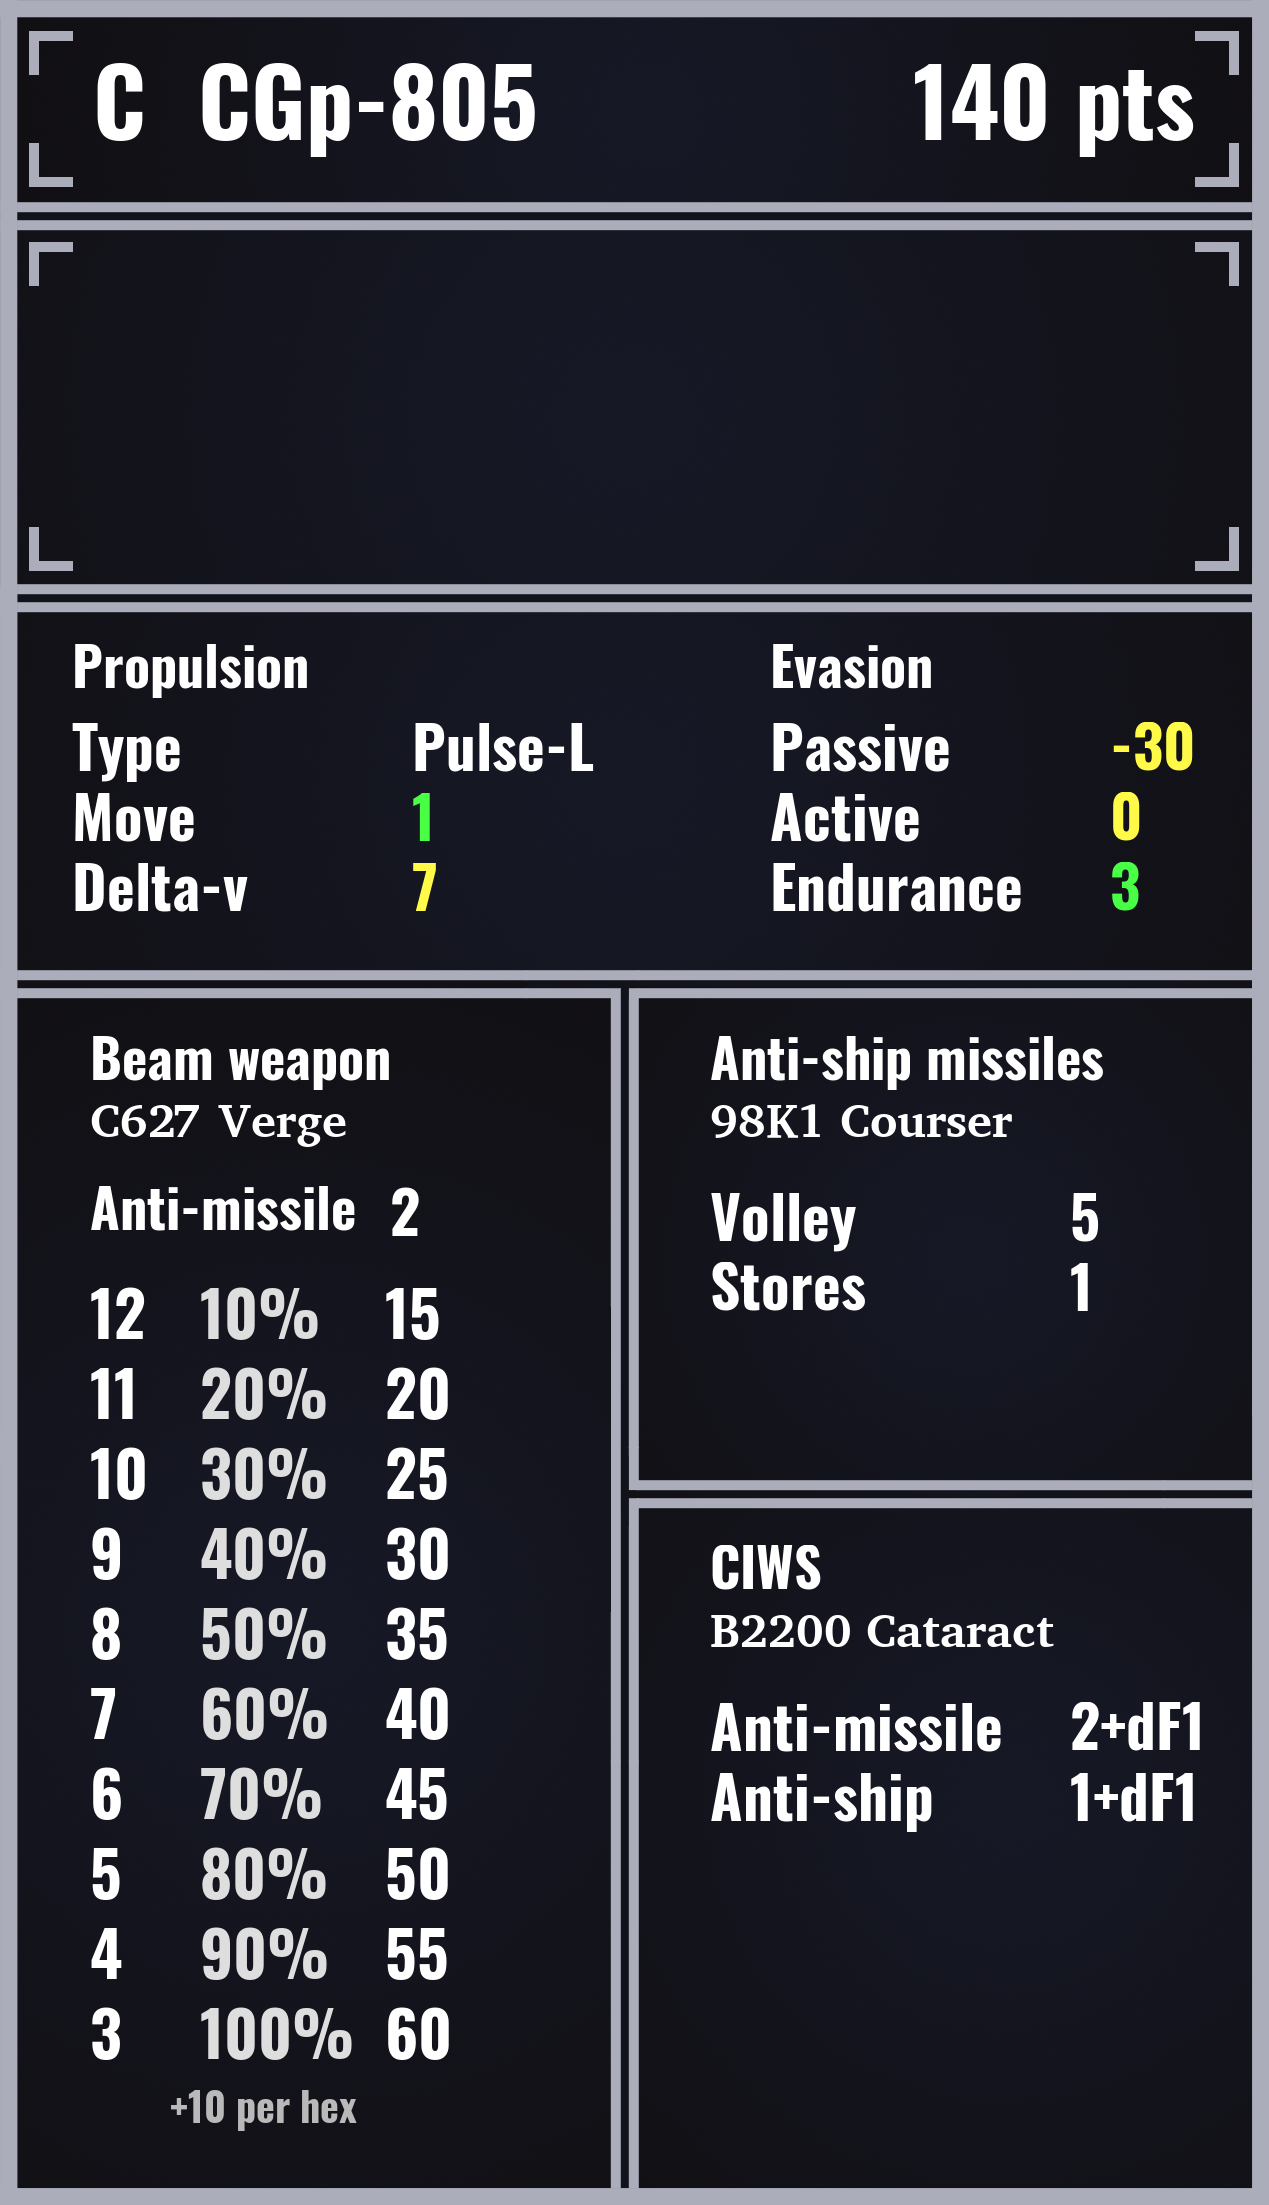
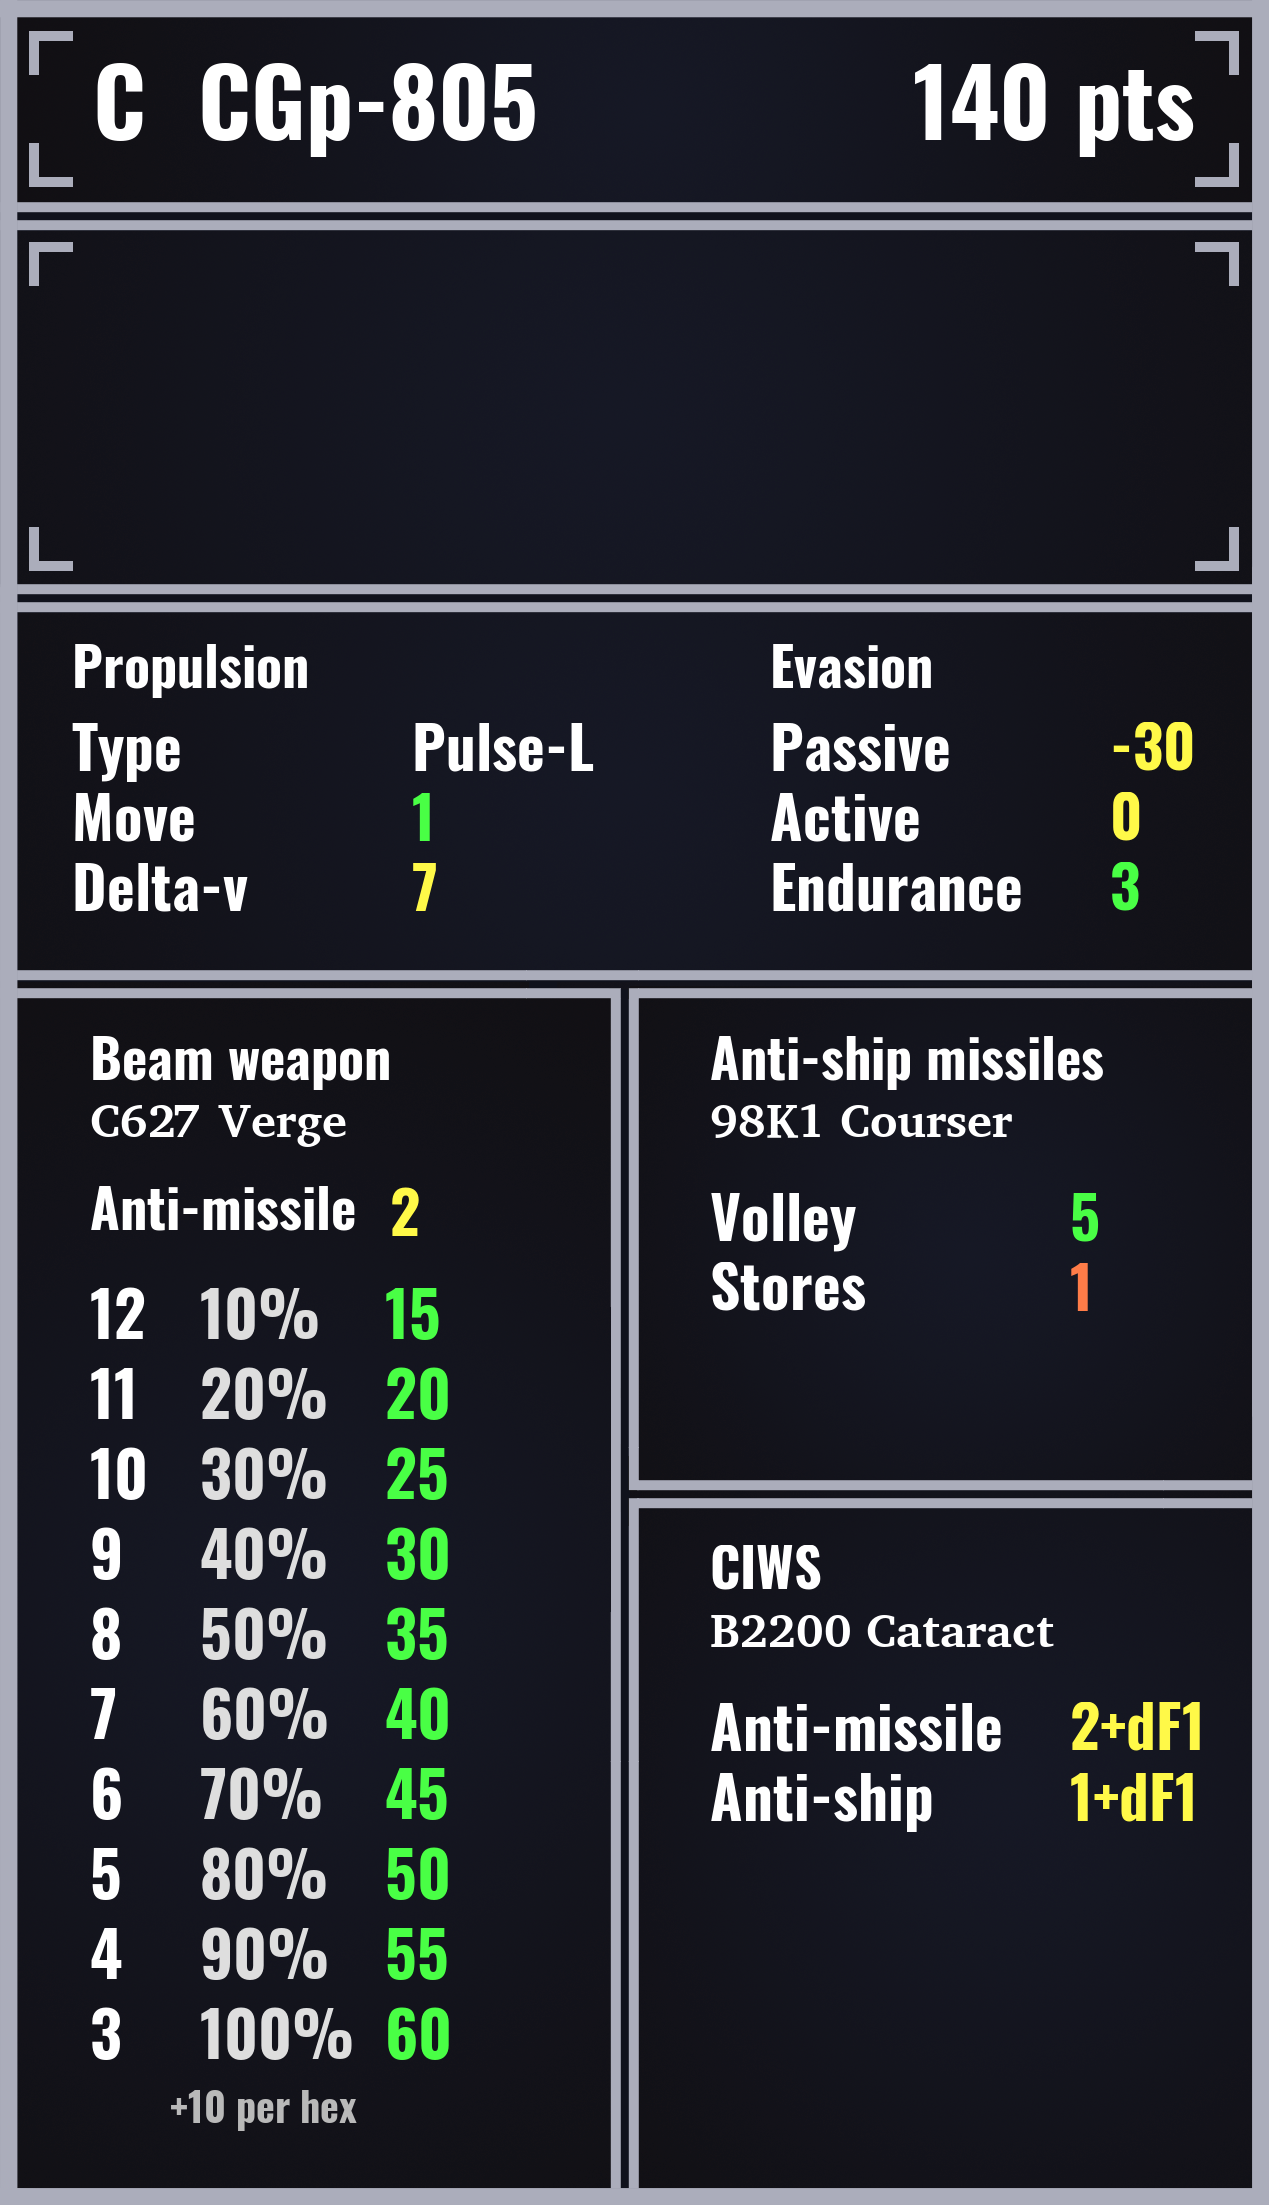
Finish implementing stat colors

Changed region(s): [[0.3073, 0.5243, 0.3688, 0.956], [0.8298, 0.771, 0.9527, 0.8327], [0.8298, 0.5243, 0.8605, 0.5859]]

diff --git a/application/cardgenerator/card_generator.py b/application/cardgenerator/card_generator.py
@@ -64,7 +64,7 @@ class CardGenerator():
             drawer.text(xy=self._add_coords_(col2_row3, number_dsplc), text=str(ship.evasion_endurance), 
             fill=colors.color(Stat.EVASION_ENDURANCE, ship.evasion_endurance), font=self.stats_font)
 
-        self._draw_weapons_(self.get_weapons(ship), drawer)
+        self._draw_weapons_(self.get_weapons(ship), drawer, colors)
 
         image.save("application/cardgenerator/assets/result.png")
 
@@ -106,7 +106,7 @@ class CardGenerator():
 
         return weapons
 
-    def _draw_weapons_(self, weapons, drawer):
+    def _draw_weapons_(self, weapons, drawer, colors):
         i = 0
         while i < 3:
             if i == 0:
@@ -126,43 +126,50 @@ class CardGenerator():
 
             if isinstance(weapons[i], Laser):
                 laser = weapons[i]
-                self._draw_laser_(laser, drawer, startcoords, statstart, number_dsplc)
+                self._draw_laser_(laser, drawer, colors, startcoords, statstart, number_dsplc)
 
             if isinstance(weapons[i], Missile):
                 missile = weapons[i]
-                self._draw_missile_(missile, drawer, startcoords, statstart, number_dsplc)
+                self._draw_missile_(missile, drawer, colors, startcoords, statstart, number_dsplc)
 
             if isinstance(weapons[i], AreaMissile):
                 area_missile = weapons[i]
-                self._draw_area_missile_(area_missile, drawer, startcoords, statstart, number_dsplc)                
+                self._draw_area_missile_(area_missile, drawer, colors, startcoords, statstart, number_dsplc)                
 
             if isinstance(weapons[i], Ewar):
                 ewar = weapons[i]
-                self._draw_ewar_(ewar, drawer, startcoords, statstart, number_dsplc)
+                self._draw_ewar_(ewar, drawer, colors, startcoords, statstart, number_dsplc)
 
             if isinstance(weapons[i], CIWS):
                 ciws = weapons[i]
-                self._draw_CIWS_(ciws, drawer, startcoords, statstart, number_dsplc)
+                self._draw_CIWS_(ciws, drawer, colors, startcoords, statstart, number_dsplc)
 
             i += 1
 
-    def _draw_laser_(self, laser, drawer, startcoords, statstart, number_dsplc):
+    def _draw_laser_(self, laser, drawer, colors, startcoords, statstart, number_dsplc):
         if laser.turreted:
             drawer.text(xy=startcoords, text="Turreted beam", fill=(255,255,255), font=self.sub_title_font)
         else:
             drawer.text(xy=startcoords, text="Beam weapon", fill=(255,255,255), font=self.sub_title_font)
+
+        # Get colors (dmg based on range 3 which all lasers have)
+        am_color = colors.color(Stat.LASER_AM, laser.laser_dmg_missile)
+        rangepoint3 = laser.rangepoints[len(laser.rangepoints) - 1]
+        dmg_color = colors.color(Stat.LASER_DMG, rangepoint3.dmg)
         
         # Anti-missile
         antimissilecoords = self._add_coords_(startcoords, (0,150))
         drawer.text(xy=antimissilecoords, text="Anti-missile", fill=(255,255,255), font=self.sub_title_font)
-        drawer.text(xy=self._add_coords_(antimissilecoords, (300,0)), text=str(laser.laser_dmg_missile), fill=(255,255,255), font=self.stats_font)
+        drawer.text(xy=self._add_coords_(antimissilecoords, (300,0)), text=str(laser.laser_dmg_missile), fill=(am_color), font=self.stats_font)
         
         # Range table
         rangestartcoords = self._add_coords_(antimissilecoords, (0,100))
+        
         # Calculate accuracy for first range point such that range 3 is 100%
         accuracy = 100 - (len(laser.rangepoints) - 1) * 10
         rangecoords = rangestartcoords
         laser_vertical_sep = (0,80)
+
         for rangepoint in laser.rangepoints:
             # Range
             drawer.text(xy=rangecoords, text=str(rangepoint.lrange), fill=(255,255,255), font=self.laser_font)
@@ -171,7 +178,7 @@ class CardGenerator():
             drawer.text(xy=coords, text=str(accuracy) + "%", fill=(222,222,222), font=self.laser_font)
             # Damage
             coords = self._add_coords_(coords, (185,0))
-            drawer.text(xy=coords, text=str(rangepoint.dmg), fill=(255,255,255), font=self.laser_font)           
+            drawer.text(xy=coords, text=str(rangepoint.dmg), fill=dmg_color, font=self.laser_font)           
 
             rangecoords = self._add_coords_(rangecoords, laser_vertical_sep)
             accuracy += 10
@@ -180,20 +187,22 @@ class CardGenerator():
         endtextcoords = self._add_coords_(rangecoords, (80,10))
         drawer.text(xy=endtextcoords, text="+10 per hex", fill=(185,185,185), font=self.laser_endtext_font)
 
-    def _draw_missile_(self, missile, drawer, startcoords, statstart, number_dsplc):
+    def _draw_missile_(self, missile, drawer, colors, startcoords, statstart, number_dsplc):
         # Title
         drawer.text(xy=startcoords, text="Anti-ship missiles", fill=(255,255,255), font=self.sub_title_font)
         
         # Volley
         drawer.text(xy=statstart, text="Volley", fill=(255,255,255), font=self.stats_font)
-        drawer.text(xy=self._add_coords_(statstart, number_dsplc), text=str(missile.volley), fill=(255,255,255), font=self.stats_font)
+        drawer.text(xy=self._add_coords_(statstart, number_dsplc), text=str(missile.volley), 
+        fill=colors.color(Stat.MISSILE_VOLLEY, missile.volley), font=self.stats_font)
         
         # Stores
         row2 = self._add_coords_(statstart, self.stat_vertical_sep)
         drawer.text(xy=row2, text="Stores", fill=(255,255,255), font=self.stats_font)
-        drawer.text(xy=self._add_coords_(row2, number_dsplc), text=str(missile.stores), fill=(255,255,255), font=self.stats_font)
+        drawer.text(xy=self._add_coords_(row2, number_dsplc), text=str(missile.stores), 
+        fill=colors.color(Stat.MISSILE_STORES, missile.stores), font=self.stats_font)
 
-    def _draw_area_missile_(self, area_missile, drawer, startcoords, statstart, number_dsplc):
+    def _draw_area_missile_(self, area_missile, drawer, colors, startcoords, statstart, number_dsplc):
         # Differentiate between defense and attack missiles.
         if not area_missile.dmg_missile:
             am_type = "Assault missiles"
@@ -208,35 +217,40 @@ class CardGenerator():
         
         # Range
         drawer.text(xy=statstart, text="Range", fill=(255,255,255), font=self.stats_font)
-        drawer.text(xy=self._add_coords_(statstart, number_dsplc), text=str(area_missile.am_range), fill=(255,255,255), font=self.stats_font)
+        drawer.text(xy=self._add_coords_(statstart, number_dsplc), text=str(area_missile.am_range), 
+        fill=colors.color(Stat.AM_RANGE, area_missile.am_range), font=self.stats_font)
         
         # Anti-ship
         row2 = self._add_coords_(statstart, self.stat_vertical_sep)
         drawer.text(xy=row2, text="Anti-ship", fill=(255,255,255), font=self.stats_font)
-        drawer.text(xy=self._add_coords_(row2, number_dsplc), text=str(area_missile.dmg_ship), fill=(255,255,255), font=self.stats_font)
+        drawer.text(xy=self._add_coords_(row2, number_dsplc), text=str(area_missile.dmg_ship), 
+        fill=(colors.color(Stat.AM_DMG_SHIP, area_missile.dmg_ship)), font=self.stats_font)
         
         # Anti-missile
         if (am_type == "Defense missiles"):
             row3 = self._add_coords_(row2, self.stat_vertical_sep)
             drawer.text(xy=row3, text="Anti-missile", fill=(255,255,255), font=self.stats_font)
-            drawer.text(xy=self._add_coords_(row3, number_dsplc), text=str(area_missile.dmg_missile), fill=(255,255,255), font=self.stats_font)
+            drawer.text(xy=self._add_coords_(row3, number_dsplc), text=str(area_missile.dmg_missile), 
+            fill=colros.color(Stat.AM_DMG_MISSILE, area_missile.dmg_missile), font=self.stats_font)
 
-    def _draw_ewar_(self, ewar, drawer, startcoords, statstart, number_dsplc):
+    def _draw_ewar_(self, ewar, drawer, colors, startcoords, statstart, number_dsplc):
         # Will be finished once the ewar data type is finished
         drawer.text(xy=startcoords, text="Ewar suite", fill=(255,255,255), font=self.sub_title_font)
 
-    def _draw_CIWS_(self, CIWS, drawer, startcoords, statstart, number_dsplc):
+    def _draw_CIWS_(self, CIWS, drawer, colors, startcoords, statstart, number_dsplc):
         # Title
         drawer.text(xy=startcoords, text="CIWS", fill=(255,255,255), font=self.sub_title_font)
         
         # Anti-missile
         drawer.text(xy=statstart, text="Anti-missile", fill=(255,255,255), font=self.stats_font)
-        drawer.text(xy=self._add_coords_(statstart, number_dsplc), text=str(CIWS.dmg_missile), fill=(255,255,255), font=self.stats_font)
+        drawer.text(xy=self._add_coords_(statstart, number_dsplc), text=str(CIWS.dmg_missile), 
+        fill=colors.color(Stat.CIWS_DMG_MISSILE, CIWS.dmg_missile), font=self.stats_font)
         
         # Anti-ship
         row2 = self._add_coords_(statstart, self.stat_vertical_sep)
         drawer.text(xy=row2, text="Anti-ship", fill=(255,255,255), font=self.stats_font)
-        drawer.text(xy=self._add_coords_(row2, number_dsplc), text=str(CIWS.dmg_ship), fill=(255,255,255), font=self.stats_font)
+        drawer.text(xy=self._add_coords_(row2, number_dsplc), text=str(CIWS.dmg_ship), 
+        fill=colors.color(Stat.CIWS_DMG_SHIP, CIWS.dmg_ship), font=self.stats_font)
     
     def _add_coords_(self, first, second):
         return tuple(sum(x) for x in zip(first, second))

diff --git a/application/cardgenerator/statcolor.py b/application/cardgenerator/statcolor.py
@@ -132,13 +132,15 @@ class StatColor():
 
     def _laser_am_color_(self, stat):
         # 2 is average. Below it is poor. 3 is good. Anything above is excellent.
-        if stat <= 1:
+        parsedStat = int(stat)
+
+        if parsedStat <= 1:
             return Color.POOR.value
 
-        if stat == 2:
+        if parsedStat == 2:
             return Color.AVERAGE.value
 
-        if stat == 3:
+        if parsedStat == 3:
             return Color.GOOD.value
 
         return Color.EXCELLENT.value
@@ -154,28 +156,107 @@ class StatColor():
         if 46 <= stat <= 60:
             return Color.GOOD.value
 
-        
+        return Color.EXCELLENT.value
 
     def _missile_volley_color_(self, stat):
-        pass
+        # 1-2 is poor. 3-4 is average. 5 is good 6 and above is excellent.
+        if stat <= 2:
+            return Color.POOR.value
+
+        if 3 <= stat <= 4:
+            return Color.AVERAGE.value
+
+        if stat == 5:
+            return Color.GOOD.value
+
+        return Color.EXCELLENT.value
 
     def _missile_stores_color_(self, stat):
-        pass
+        # 1 is poor. 2 is average. 3 is good, higher than that is excellent.
+        if stat <= 1:
+            return Color.POOR.value
+
+        if stat == 2:
+            return Color.AVERAGE.value
+
+        if stat == 3:
+            return Color.GOOD.value
+
+        return Color.EXCELLENT.value
 
     def _am_range_color_(self, stat):
-        pass
+        # 1 is poor, 2 is average, 3 is good, more than that is excellent.
+        if stat <= 1:
+            return Color.POOR.value
+
+        if stat == 2:
+            return Color.AVERAGE.value
+
+        if stat == 3:
+            return Color.GOOD.value
+
+        return Color.EXCELLENT.value
+
 
     def _am_dmg_ship_color_(self, stat):
-        pass
+        # 1 is average, 2 is good, 3 or more is excellent. There is no poor.
+        # The number we want is the first character in a string
+        parsedStat = int(stat[0])
+
+        if parsedStat == 1:
+            return Color.AVERAGE.value
+
+        if parsedStat == 2:
+            return Color.GOOD.value
+
+        return Color.EXCELLENT.value
+
 
     def _am_dmg_missile_color_(self, stat):
-        pass
+        # 1 is poor, 2 is average, 3 is good, 4 or more is excellent.
+        # The number we want is the first character in a string
+        parsedStat = int(stat[0])
+
+        if parsedStat == 1:
+            return Color.POOR.value
+
+        if parsedStat == 2:
+            return Color.AVERAGE.value
+
+        if parsedStat == 3:
+            return Color.GOOD.value
+
+        return Color.EXCELLENT.value
 
     def _ciws_dmg_ship_color_(self, stat):
-        pass
+        # 1 is average, 2 is good, 3 or more is excellent. There is no poor.
+        # The number we want is the first character in a string
+        parsedStat = int(stat[0])
+
+        if parsedStat == 1:
+            return Color.AVERAGE.value
+
+        if parsedStat == 2:
+            return Color.GOOD.value
+
+        return Color.EXCELLENT.value
 
     def _ciws_dmg_missile_color_(self, stat):
-        pass
+        # 1 is poor, 2 is average, 3 is good, more is excellent
+        # The number we want is the first character in a string
+        parsedStat = int(stat[0])
+
+        if parsedStat == 1:
+            return Color.POOR.value
+
+        if parsedStat == 2:
+            return Color.AVERAGE.value
+
+        if parsedStat == 3:
+            return Color.GOOD.value
+
+        return Color.EXCELLENT.value
+
 
 class Stat(Enum):
     # These are all the kinds of stats that need colors.
